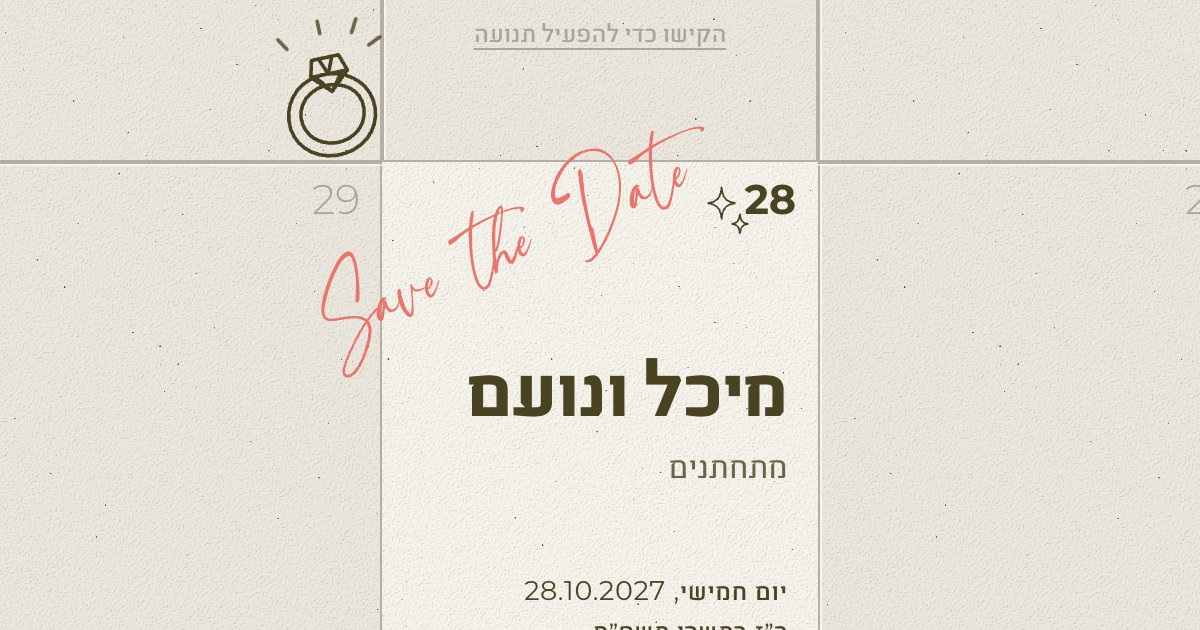
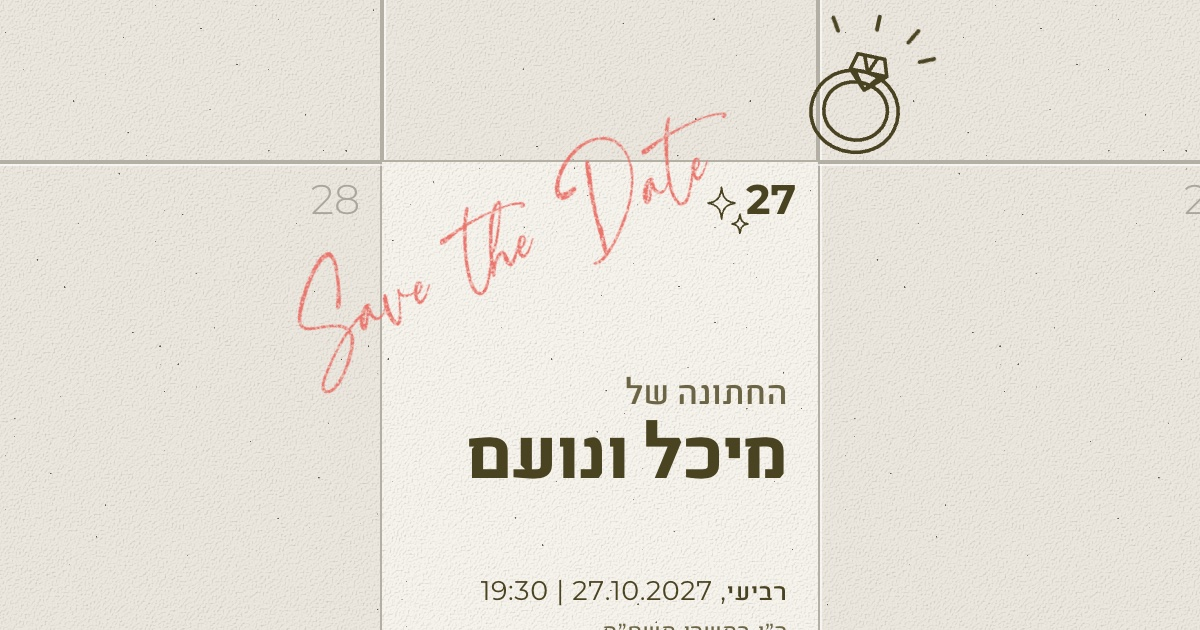
Move the wedding to 27.10.2027 at 19:30 at Tzel HaChoresh

diff --git a/index.html b/index.html
@@ -5,10 +5,10 @@
   <meta name="viewport" content="width=device-width, initial-scale=1, viewport-fit=cover">
   <meta name="theme-color" content="#ebe7de">
   <title>מיכל ונועם – Save the Date</title>
-  <meta name="description" content="מיכל ונועם מתחתנים! 28.10.2027 – שמרו את התאריך.">
+  <meta name="description" content="מיכל ונועם מתחתנים! 27.10.2027 – שמרו את התאריך.">
   <meta property="og:type" content="website">
   <meta property="og:title" content="מיכל ונועם – Save the Date">
-  <meta property="og:description" content="מתחתנים ב־28.10.2027. שמרו את התאריך!">
+  <meta property="og:description" content="מתחתנים ב־27.10.2027. שמרו את התאריך!">
   <meta property="og:url" content="https://michalanhr-arch.github.io/save-the-date/">
   <meta property="og:image" content="https://michalanhr-arch.github.io/save-the-date/assets/og.jpg">
   <meta property="og:image:width" content="1200">

diff --git a/main.js b/main.js
@@ -4,11 +4,11 @@
   // ---------- Wedding details: edit here ----------
   const WEDDING = {
     // Israel is still on summer time (UTC+3) at the end of October 2027
-    start: '2027-10-28T19:00:00+03:00',
+    start: '2027-10-27T19:30:00+03:00',
     // When false, the calendar entry is an all-day event and the hour is not shown
     timeConfirmed: true,
-    durationHours: 8, // 19:00 until 03:00
-    venue: 'אולם אירועים',
+    durationHours: 7.5, // 19:30 until 03:00
+    venue: 'צל החורש',
     // The venue's street address, as Google Maps knows it; it goes in the calendar event's location
     address: '',
     calendarTitle: 'החתונה של מיכל ונועם',
